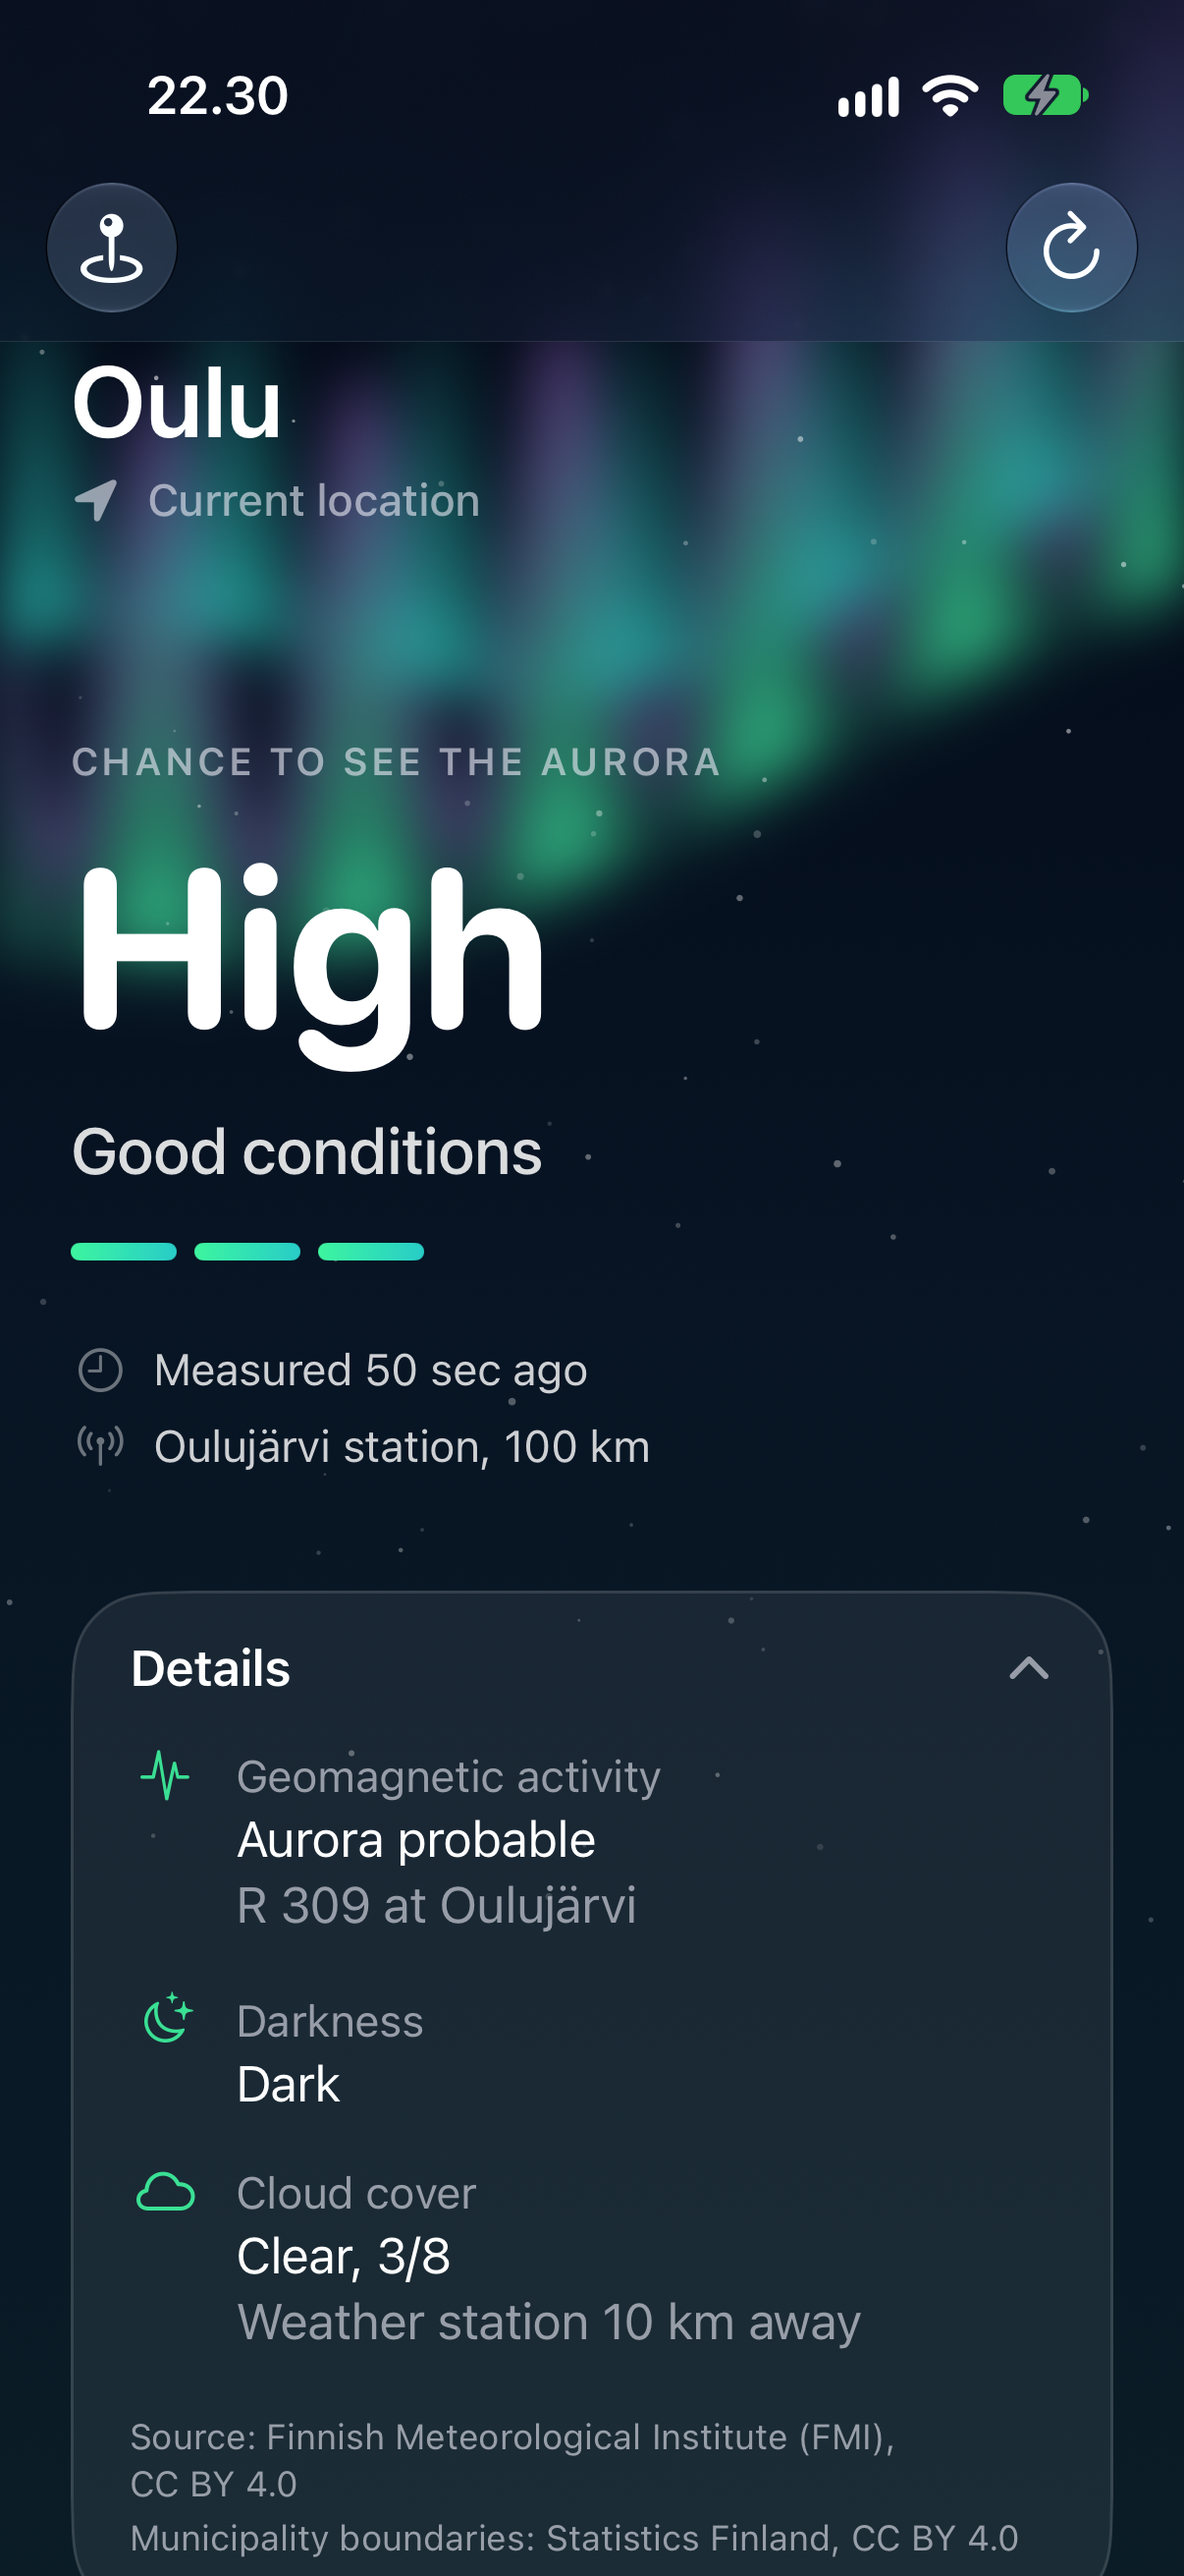
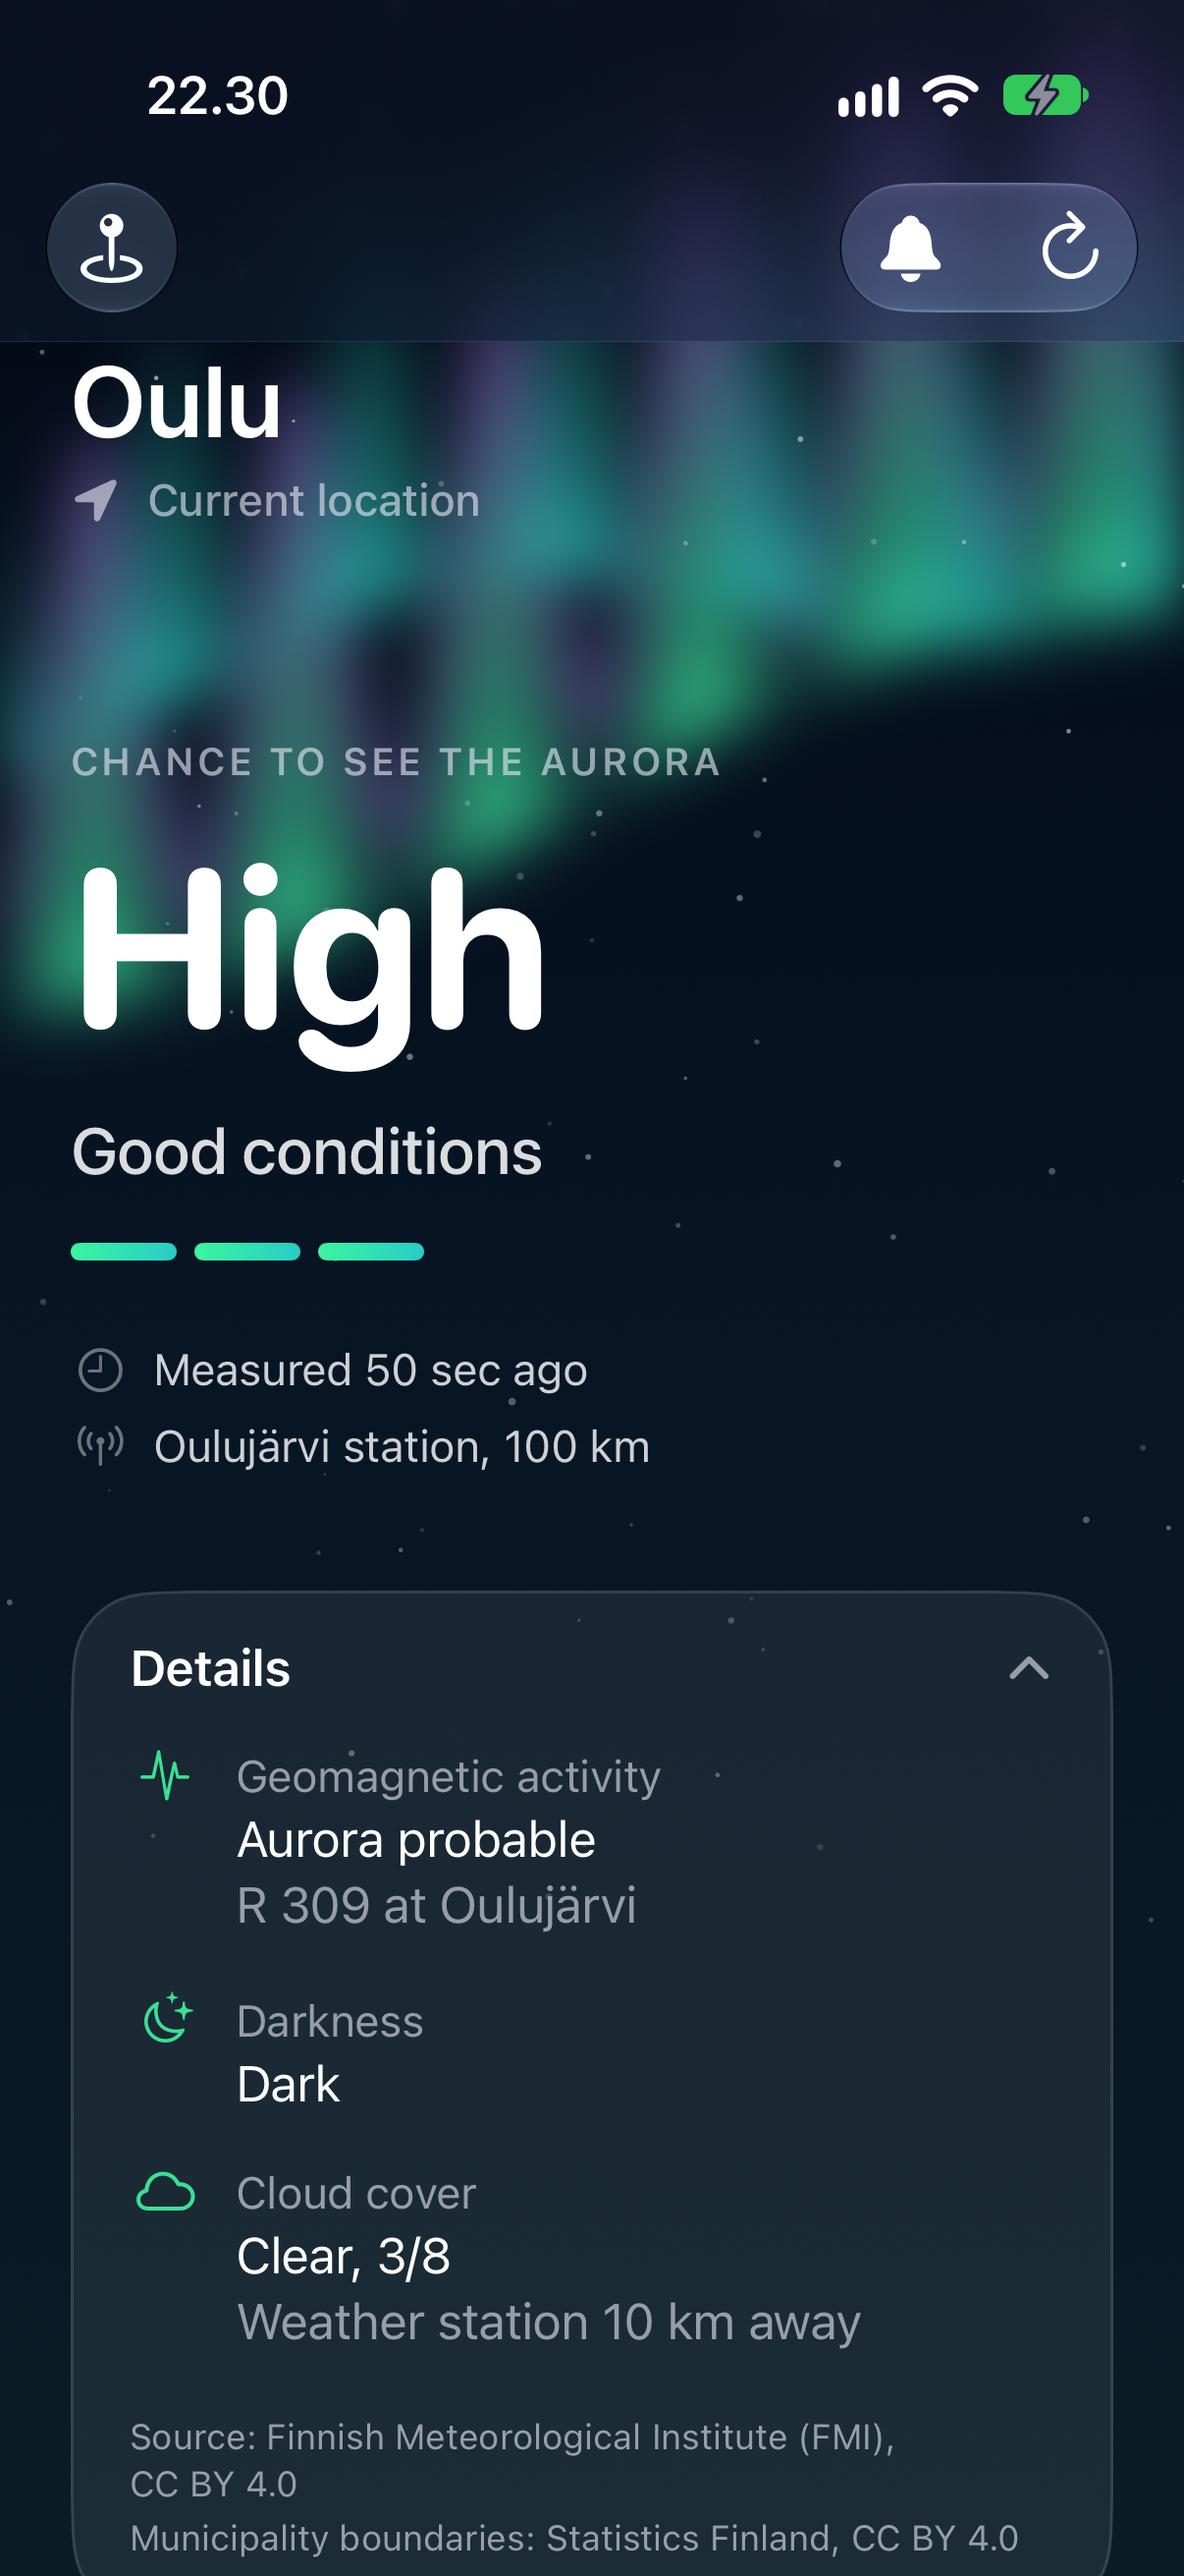
docs: update README screenshots for 2.0
Retake the Oulu main screen with the alerts bell in the toolbar, add the
alert settings next to the Aurora alerts section, and say that 2.0 is in
TestFlight testing.

Changed region(s): [[0.0, 0.0618, 0.9818, 0.4016]]

diff --git a/README.md b/README.md
@@ -18,14 +18,14 @@ Optional aurora alerts send a notification when the chance in your area of Finla
 level you choose, even when the app is closed. See [Aurora alerts](#aurora-alerts).
 
 <p align="center">
-  <img src="docs/images/main-screen-oulu.png" alt="Main screen in Oulu on a dark, clear evening: the chance to see the aurora is High, with good conditions, measured at the Oulujärvi station 100 km away. The open details panel shows probable geomagnetic activity (R 309), a dark sky and clear weather" width="300" />
+  <img src="docs/images/main-screen-oulu.png" alt="Main screen in Oulu on a dark, clear evening: the chance to see the aurora is High, with good conditions, measured at the Oulujärvi station 100 km away. The open details panel shows probable geomagnetic activity (R 309), a dark sky and clear weather. The toolbar has the place, alerts and refresh buttons" width="300" />
 </p>
 
 <p align="center"><sub>The main screen in Oulu during strong geomagnetic activity. The data in this
 screenshot is synthetic.</sub></p>
 
-> **Status:** version 1.0, the aurora main screen, is on the App Store. Aurora alerts are being
-> built for version 2.0. See [specs/001-aurora-main-screen](specs/001-aurora-main-screen/) and
+> **Status:** version 1.0, the aurora main screen, is on the App Store. Version 2.0 adds aurora
+> alerts and is in TestFlight testing. See [specs/001-aurora-main-screen](specs/001-aurora-main-screen/) and
 > [specs/002-aurora-alerts](specs/002-aurora-alerts/).
 
 ## Principles
@@ -106,6 +106,10 @@ after dark, it sends a push notification through Apple Push Notification service
 zone gets at most three alerts a night. The notification carries only text keys and the station
 name; the phone shows the text in its own language. In the settings you can send yourself a test
 notification.
+
+<p align="center">
+  <img src="docs/images/alert-settings-oulu.png" alt="Aurora alerts settings, turned on for the Oulujärvi area and confirmed now. The area follows the place on the main screen, with at most three alerts a night. The threshold is High, for high chances only, and a Send test button is below" width="300" />
+</p>
 
 ### What the service keeps
 
